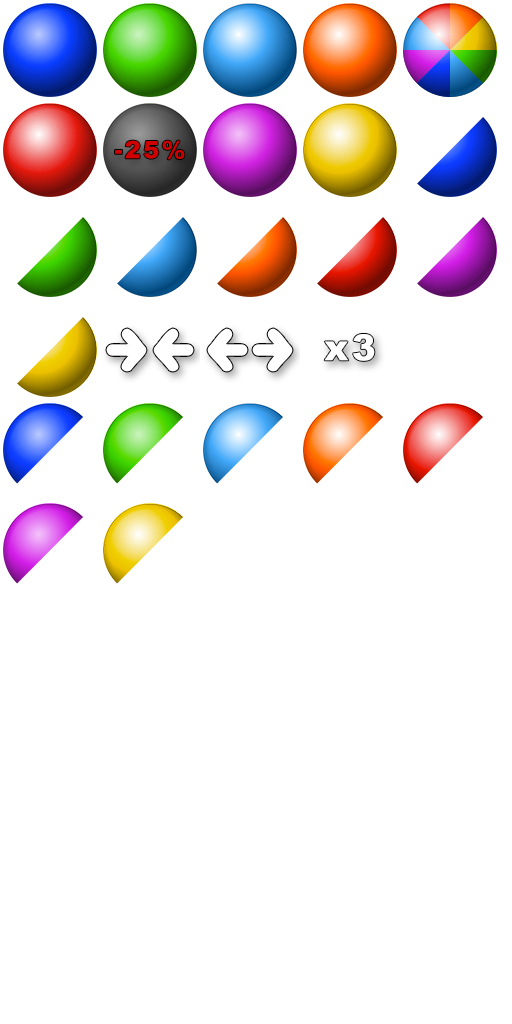
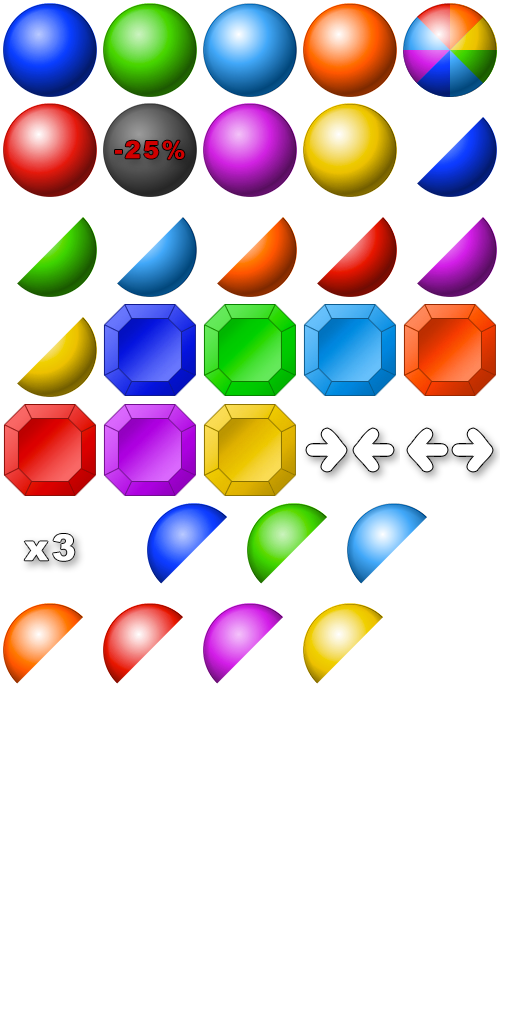
Added different balls and now you can click on them.

Changed region(s): [[0.0, 0.2812, 0.9688, 0.6875]]

diff --git a/js/base.js b/js/base.js
@@ -22,7 +22,6 @@ export class Base {
     gfx.drawRect(0,0, this.width, gameHeight);
     gfx.endFill();
 
-
     for (let x=0; x<this.width; x+=this.cellWidth) {
       for (let y = 0; y<gameHeight; y+=this.cellHeight){
         gfx.lineStyle(1, 0xfafffb);
@@ -54,6 +53,7 @@ export class Base {
     this.app = new PIXI.Application({width:this.width, height:this.height,
       antialias:true, backgroundColor:0xe4e400, resolution: window.devicePixelRatio || 1});
     div.appendChild(this.app.view);
+    PIXI.settings.SCALE_MODE = PIXI.SCALE_MODES.LINEAR;
 
     this.cnt.HUD = new PIXI.Container();
     this.cnt.field = new PIXI.Container();
@@ -69,9 +69,19 @@ export class Base {
     this.cnt.field.y = this.hudHeight;
 
     let graphics = this.createFieldGraphics();
+    graphics.interactive = true;
+    graphics.on('pointerdown', (event) => {
+      let pressCoord = graphics.toLocal(event.data.global);
+
+      this.onClick(pressCoord.x, pressCoord.y);
+    });
     this.cnt.background.addChild(graphics);
 
     this.app.loader.add('img/images2.json').load(() => {this.setupResources()})
+  }
+
+  onClick (x, y) {
+
   }
 
   setupResources () {
@@ -84,7 +94,36 @@ export class Base {
     this.tex.allImg['ball_lblue.png'],
     this.tex.allImg['ball_blue.png'],
     this.tex.allImg['ball_violet.png'],
-    ]
+    ];
+    this.tex.ballOverlay = {
+      x3: this.tex.allImg['overlay_x3.png'],
+      contract: this.tex.allImg['overlay_contract.png'],
+      expand: this.tex.allImg['overlay_expand.png'],
+      rainbow: this.tex.allImg['ball_rainbow.png'],
+      superBomb: this.tex.allImg['ball_superbomb.png']
+    };
+
+    this.tex.double = {};
+    this.tex.double.top = [
+      this.tex.allImg['thalf_ball_red.png'],
+      this.tex.allImg['thalf_ball_orange.png'],
+      this.tex.allImg['thalf_ball_yellow.png'],
+      this.tex.allImg['thalf_ball_green.png'],
+      this.tex.allImg['thalf_ball_lblue.png'],
+      this.tex.allImg['thalf_ball_blue.png'],
+      this.tex.allImg['thalf_ball_violet.png'],
+    ];
+
+    this.tex.double.bottom = [
+      this.tex.allImg['bhalf_ball_red.png'],
+      this.tex.allImg['bhalf_ball_orange.png'],
+      this.tex.allImg['bhalf_ball_yellow.png'],
+      this.tex.allImg['bhalf_ball_green.png'],
+      this.tex.allImg['bhalf_ball_lblue.png'],
+      this.tex.allImg['bhalf_ball_blue.png'],
+      this.tex.allImg['bhalf_ball_violet.png'],
+    ];
+
   }
 
 }

diff --git a/js/game.js b/js/game.js
@@ -93,7 +93,7 @@ export class Game extends Base {
     this.isGameOver = false;
     this.isColorWaveModeOn = false;
     this.possibleBallTypes = [regular, regular, regular, regular, regular, regular, regular, regular, regular];
-    this.forcedBallTypes = [];
+    this.forcedBallTypes = [contractionBall, expansionBall, superBomb];
     this.ballsRemoved = 0;
     this.colorWaveIdx = null;
 
@@ -271,6 +271,7 @@ export class Game extends Base {
   }
 
   onClick(x, y) {
+    console.log('Touch coords are ', x, y, 'cell w/h: ', this.cellWidth, '/', this.cellHeight);
     if (!this.blockClick) {
       if (!this.isColorWaveModeOn) {
         this.regularClick(x, y);
@@ -282,7 +283,7 @@ export class Game extends Base {
 
   colorWaveClick(x, y) {
     let cellX = Math.floor(x / this.cellWidth);
-    let cellY = Math.floor((y - this.hudHeight) / this.cellHeight);
+    let cellY = Math.floor(y / this.cellHeight);
     if (this.checkForBlockedCell(cellX, cellY)){
       return;
     }
@@ -296,7 +297,7 @@ export class Game extends Base {
   regularClick(x, y) {
     this.operateGameOver();
     let cellX = Math.floor(x / this.cellWidth);
-    let cellY = Math.floor((y - this.hudHeight) / this.cellHeight);
+    let cellY = Math.floor(y / this.cellHeight);
     if (this.checkForBlockedCell(cellX, cellY)) {
       return;
     }

diff --git a/js/x3Ball.js b/js/x3Ball.js
@@ -1,5 +1,7 @@
 import {RegularBall} from "./regularBall";
+import {Ball} from "./ball";
 import TWEEN from "@tweenjs/tween.js";
+import * as PIXI from 'pixi.js';
 
 export const x3Ball = 'x3';
 
@@ -7,6 +9,10 @@ export class X3Ball extends RegularBall {
   constructor(x, y, colorIdx, color, cellWidth, cellHeight, game) {
     super(x, y, colorIdx, color, cellWidth, cellHeight, game);
     this.opacity = 1;
+    this.overlaySprite = new PIXI.Sprite(this.game.tex.ballOverlay.x3);
+    this.overlaySprite.anchor.set(0.5);
+    this.overlaySprite.scale.set(this.cellWidth / this.sprite.width * Ball.defaultScaleMultiplier / 1.5);
+    this.ballCont.addChild(this.overlaySprite);
   }
 
   getType() {
@@ -16,11 +22,7 @@ export class X3Ball extends RegularBall {
   drawBall() {
     super.drawBall();
     let radius = Math.floor(this.cellHeight * 0.3125);
-    this.game.ctx.font = `bold ${radius * 0.55}px SmallPixel`;
-    this.game.ctx.textAlign = 'center';
-    this.game.ctx.textBaseline = 'middle';
-    this.game.ctx.fillStyle = `rgba(0,0,0,${this.opacity})`;
-    this.game.ctx.fillText('x3', 0, 0);
+
   }
 
   vanish(onComplete, delay = 0) {

diff --git a/js/superBomb.js b/js/superBomb.js
@@ -1,8 +1,25 @@
-import {RainbowBall} from "./rainbowBall";
+import {Ball} from "./ball";
+import * as PIXI from "pixi.js";
+import {Color} from "./color";
 
 export const superBomb = 'superBomb';
 
-export class SuperBomb extends RainbowBall {
+export class SuperBomb extends Ball {
+
+  constructor(x, y, cellHeight, cellWidth, possibleColors, game) {
+    super(x, y, cellWidth, cellHeight, game);
+    this.actualColors = [];
+    for (let idx in possibleColors) {
+      let color = possibleColors[idx];
+      this.colors.add(parseInt(idx));
+      this.sprite = new PIXI.Sprite(this.game.tex.ballOverlay.superBomb);
+      this.ballCont.addChild(this.sprite);
+      this.sprite.anchor.set(0.5);
+      this.sprite.scale.set(this.cellWidth / this.sprite.width * Ball.defaultScaleMultiplier);
+      this.actualColors.push(new Color(color.red, color.green, color.blue));
+    }
+  }
+
   drawBall() {
     let x = -this.game.cellWidth2;
     let y = -this.game.cellHeight2;

diff --git a/js/doubleBall.js b/js/doubleBall.js
@@ -1,4 +1,5 @@
 import {Ball} from "./ball";
+import * as PIXI from 'pixi.js';
 
 export const doubleBall = 'double';
 
@@ -9,6 +10,14 @@ export class DoubleBall extends Ball{
     let fakeColor2 = possibleColors[colorIdx2];
     this.color1 = fakeColor1.clone();
     this.color2 = fakeColor2.clone();
+    this.topSprite = new PIXI.Sprite(this.game.tex.double.top[colorIdx1]);
+    this.bottomSprite = new PIXI.Sprite(this.game.tex.double.bottom[colorIdx2]);
+    this.topSprite.anchor.set(0.5);
+    this.bottomSprite.anchor.set(0.5);
+    this.topSprite.scale.set(this.cellWidth / this.topSprite.width * Ball.defaultScaleMultiplier);
+    this.bottomSprite.scale.set(this.cellWidth / this.bottomSprite.width * Ball.defaultScaleMultiplier);
+    this.ballCont.addChild(this.topSprite);
+    this.ballCont.addChild(this.bottomSprite);
     this.colors.add(colorIdx1);
     this.colors.add(colorIdx2);
   }

diff --git a/js/contractionBall.js b/js/contractionBall.js
@@ -1,8 +1,19 @@
 import {RegularBall} from "./regularBall";
+import * as PIXI from "pixi.js";
+import {Ball} from "./ball";
 
 export const contractionBall = 'contraction';
 
 export class ContractionBall extends RegularBall {
+  constructor(x, y, colorIdx, color, cellWidth, cellHeight, game) {
+    super(x, y, colorIdx, color, cellWidth, cellHeight, game);
+    this.opacity = 1;
+    this.overlaySprite = new PIXI.Sprite(this.game.tex.ballOverlay.contract);
+    this.overlaySprite.anchor.set(0.5);
+    this.overlaySprite.scale.set(this.cellWidth / this.sprite.width * Ball.defaultScaleMultiplier / 1.75);
+    this.ballCont.addChild(this.overlaySprite);
+  }
+
   drawBall() {
     super.drawBall();
     let radius = Math.floor(this.cellWidth*0.3125);

diff --git a/js/expansionBall.js b/js/expansionBall.js
@@ -1,8 +1,19 @@
 import {RegularBall} from "./regularBall";
+import * as PIXI from "pixi.js";
+import {Ball} from "./ball";
 
 export const expansionBall = 'expansion';
 
 export class ExpansionBall extends RegularBall {
+  constructor(x, y, colorIdx, color, cellWidth, cellHeight, game) {
+    super(x, y, colorIdx, color, cellWidth, cellHeight, game);
+    this.opacity = 1;
+    this.overlaySprite = new PIXI.Sprite(this.game.tex.ballOverlay.expand);
+    this.overlaySprite.anchor.set(0.5);
+    this.overlaySprite.scale.set(this.cellWidth / this.sprite.width * Ball.defaultScaleMultiplier / 1.75);
+    this.ballCont.addChild(this.overlaySprite);
+  }
+
   drawBall() {
     super.drawBall();
     let radius = Math.floor(this.cellWidth*0.3125);

diff --git a/js/ball.js b/js/ball.js
@@ -2,7 +2,11 @@ import TWEEN from "@tweenjs/tween.js";
 import * as PIXI from 'pixi.js';
 import {xy2screen} from "./tools";
 
+
 export class Ball {
+
+  static defaultScaleMultiplier = 0.625;
+
   constructor(x, y, cellWidth, cellHeight, game) {
     this.px = 0;
     this.py = 0;
@@ -85,7 +89,7 @@ export class Ball {
 
   selected () {
     let scale = {py: xy2screen(this.x, this.y, this).pY, scaleY:1, scaleX:1};
-    let goDown = new TWEEN.Tween(scale).to({py: 0, scaleY:1, scaleX:1}, 300)
+    let goDown = new TWEEN.Tween(scale).to({py: scale.py, scaleY:1, scaleX:1}, 300)
       .easing(TWEEN.Easing.Quadratic.In)
         .onUpdate((obj) => {
         this.ballCont.y = obj.py;

diff --git a/js/rainbowBall.js b/js/rainbowBall.js
@@ -1,5 +1,6 @@
 import {Ball} from "./ball";
 import {Color} from "./color";
+import * as PIXI from "pixi.js";
 
 export const rainbow = 'rainbow';
 
@@ -10,6 +11,10 @@ export class RainbowBall extends Ball {
     for (let idx in possibleColors) {
       let color = possibleColors[idx];
       this.colors.add(parseInt(idx));
+      this.sprite = new PIXI.Sprite(this.game.tex.ballOverlay.rainbow);
+      this.ballCont.addChild(this.sprite);
+      this.sprite.anchor.set(0.5);
+      this.sprite.scale.set(this.cellWidth / this.sprite.width * Ball.defaultScaleMultiplier);
       this.actualColors.push(new Color(color.red, color.green, color.blue));
     }
   }

diff --git a/js/regularBall.js b/js/regularBall.js
@@ -13,7 +13,7 @@ export class RegularBall extends Ball {
     this.sprite = new PIXI.Sprite(this.game.tex.ballImg[colorIdx]);
     this.ballCont.addChild(this.sprite);
     this.sprite.anchor.set(0.5);
-    this.sprite.scale.set(this.cellWidth / this.sprite.width * 0.625)
+    this.sprite.scale.set(this.cellWidth / this.sprite.width * Ball.defaultScaleMultiplier);
   }
 
   getScore() {

diff --git a/js/main.js b/js/main.js
@@ -10,6 +10,6 @@ function onResize() {
 }
 
 window.onload = init;
-window.onresize = onResize;
 
 let game = new Game();
+window.game = game;
